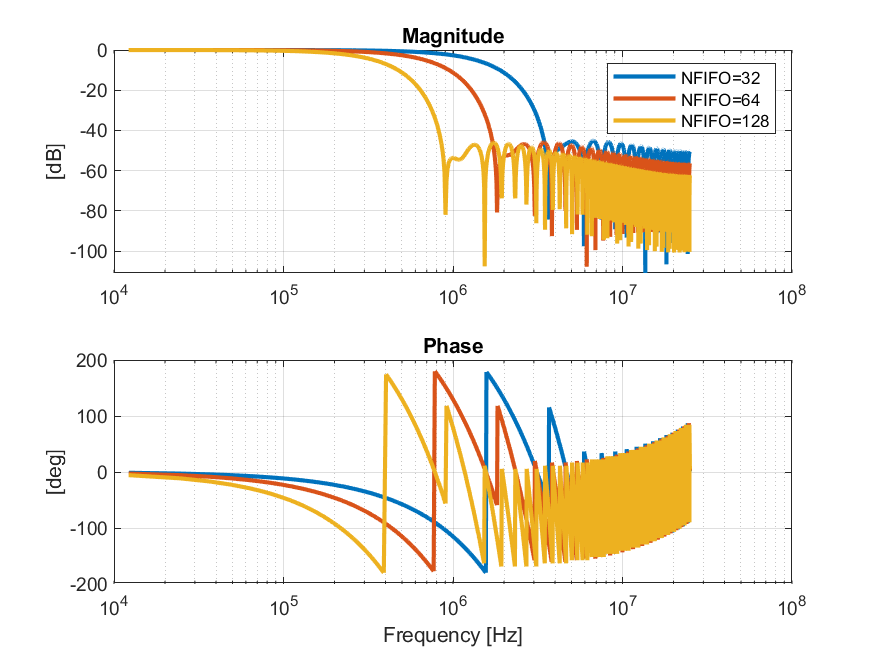
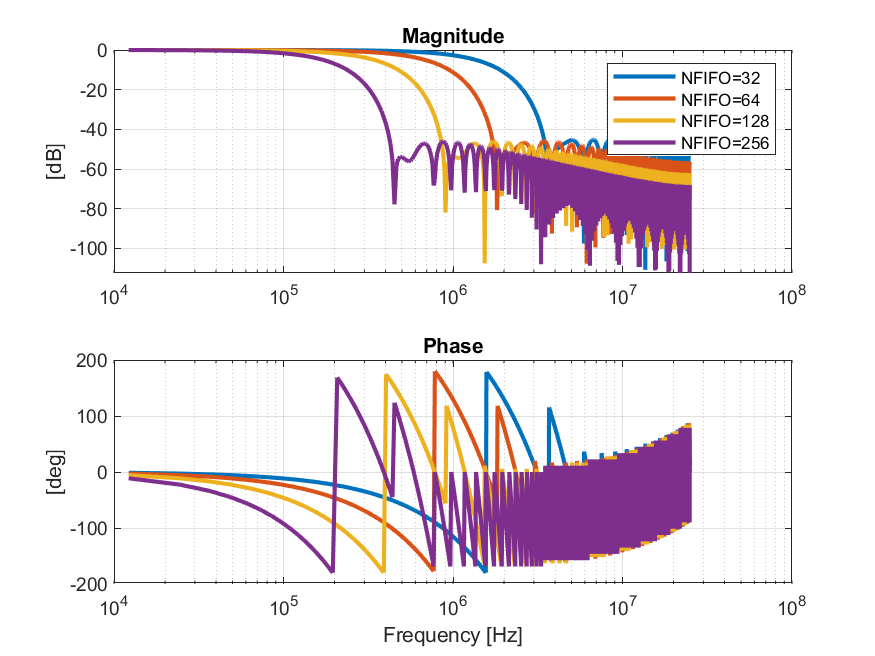
Updated project

diff --git a/Matlab/analisi_SNR.m b/Matlab/analisi_SNR.m
@@ -3,10 +3,10 @@ clear all; close all;
 % Parametri del segnale originale (da TestGenerateSignal)
 Nb    = 8;
 tclk  = 20e-9;
-NFIFO_values = [32, 64, 128];
+NFIFO_values = [32, 64, 128, 256];
 
 mypath = 'C:/Users/Nadim/Desktop/FPGA_DigitalSignalFiltering/DigitalSignalFiltering/DigitalSignalFiltering.sim/sim_1/behav/xsim/';
-filenames = {'output_NFIFO32.txt', 'output_NFIFO64.txt', 'output_NFIFO128.txt'};
+filenames = {'output_NFIFO32.txt', 'output_NFIFO64.txt', 'output_NFIFO128.txt', 'output_NFIFO256.txt'};
 
 % Carica il segnale originale da TestGenerateSignal
 FS   = 256;
@@ -32,11 +32,11 @@ signal_rms   = rms(ysignal_pure - mean(ysignal_pure));
 SNR_dB = zeros(1,3);
 noise_rms = zeros(1,3);
 
-figure('Name','Confronto output filtro per NFIFO=32/64/128');
+figure('Name','Confronto output filtro per NFIFO=32/64/128/256');
 hold on; grid on;
-colors = ['r','g','b'];
+colors = ['r','g','b', 'm'];
 
-for i = 1:3
+for i = 1:4
     % Leggi file VIVADO
     d = importdata(strcat(mypath, filenames{i}));
     y = bin2dec(num2str(d));
@@ -60,13 +60,13 @@ end
 plot(t_vhd, ysignal_pure, '--k', 'LineWidth', 2, 'DisplayName', 'Segnale puro');
 xlabel('Time [s]'); ylabel('Digital [-]');
 legend('show', 'Location', 'southeast'); 
-title('Output filtro VIVADO vs segnale puro');
+title('Output VIVADO filter vs pure signal');
 
 % Tabella riassuntiva SNR
 fprintf('\nTABELLA SNR\n');
 fprintf('%-10s %-15s %-15s %-20s\n', 'NFIFO', 'Banda filtro', 'Noise RMS', 'SNR [dB]');
 fs = 1/tclk;
-for i = 1:3
+for i = 1:4
     fcutoff = fs / (2 * NFIFO_values(i));
     fprintf('%-10d %-15.0f %-15.4f %-20.2f\n', ...
     NFIFO_values(i), fs/(2*NFIFO_values(i)), noise_rms(i), SNR_dB(i));
@@ -77,7 +77,7 @@ saveas(gcf, 'confronto_NFIFO_all.png');
 
 figure('Name','Frequency Response');
 fs = 1/tclk;
-for i = 1:3
+for i = 1:4
     NFIFO = NFIFO_values(i);
     fcutoff = 0.5*fs/NFIFO;
     b = fir1(NFIFO, fcutoff/(0.5*fs), 'low');
@@ -95,15 +95,15 @@ end
 subplot(2,1,1); legend('show');
 saveas(gcf, 'frequency_response_all.png');
 
-%% Plot evoluzione rumore residuo (stima diretta della fondamentale dai dati)
+% Plot evoluzione rumore residuo
 figure('Name','Residual Noise Evolution');
 hold on; grid on;
-colors_noise = ['r','g','b'];
+colors_noise = ['r','g','b', 'm'];
 
 c_ref = cos(2*pi*f0*t_vhd);
 s_ref = sin(2*pi*f0*t_vhd);
 
-for i = 1:3
+for i = 1:4
     NFIFO = NFIFO_values(i);
 
     d = importdata(strcat(mypath, filenames{i}));
@@ -111,7 +111,7 @@ for i = 1:3
     y = double(y(1:N_vhd))';
     y_ac = y - mean(y);
 
-    % Stima ampiezza e fase REALI presenti nell'uscita (Fourier projection)
+    % Stima ampiezza e fase reali presenti nell'uscita (Fourier projection)
     a_coef = 2/length(y_ac) * sum(y_ac .* c_ref);
     b_coef = 2/length(y_ac) * sum(y_ac .* s_ref);
     fundamental_fit = a_coef*c_ref + b_coef*s_ref;
@@ -129,3 +129,29 @@ lgd = legend('show');
 lgd.Location = 'best';
 
 saveas(gcf, 'noise_evolution.png');
+
+% Verifica empirica del ritardo di gruppo (metodo: fase della fondamentale)
+fprintf('\nVERIFICA RITARDO DI GRUPPO\n');
+fprintf('%-10s %-20s %-20s\n', 'NFIFO', 'Teorico [campioni]', 'Misurato [campioni]');
+
+c_ref = cos(2*pi*f0*t_vhd);
+s_ref = sin(2*pi*f0*t_vhd);
+
+for i = 1:length(NFIFO_values)
+    NFIFO = NFIFO_values(i);
+    
+    d = importdata(strcat(mypath, filenames{i}));
+    y = bin2dec(num2str(d));
+    y = double(y(1:N_vhd))';
+    y_ac = y - mean(y);
+    
+    a_coef = 2/length(y_ac) * sum(y_ac .* c_ref);
+    b_coef = 2/length(y_ac) * sum(y_ac .* s_ref);
+    phi = atan2(a_coef, b_coef);
+    
+    delay_time = mod(-phi/(2*pi*f0), T0);   % avvolge in [0, T0)
+    delay_theoretical = NFIFO/2;
+    delay_measured = delay_time / tclk;     % converti secondi → campioni
+    
+    fprintf('%-10d %-20d %-20.1f\n', NFIFO, delay_theoretical, delay_measured);
+end